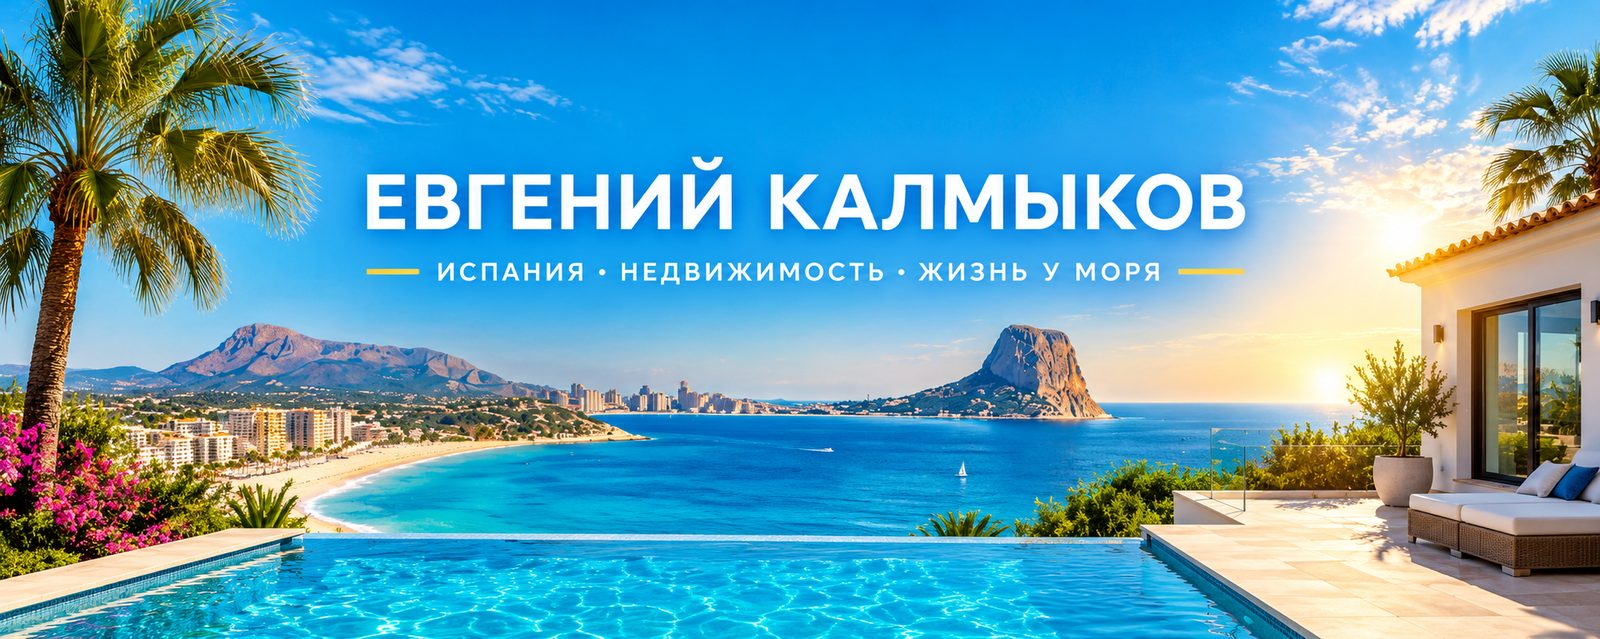
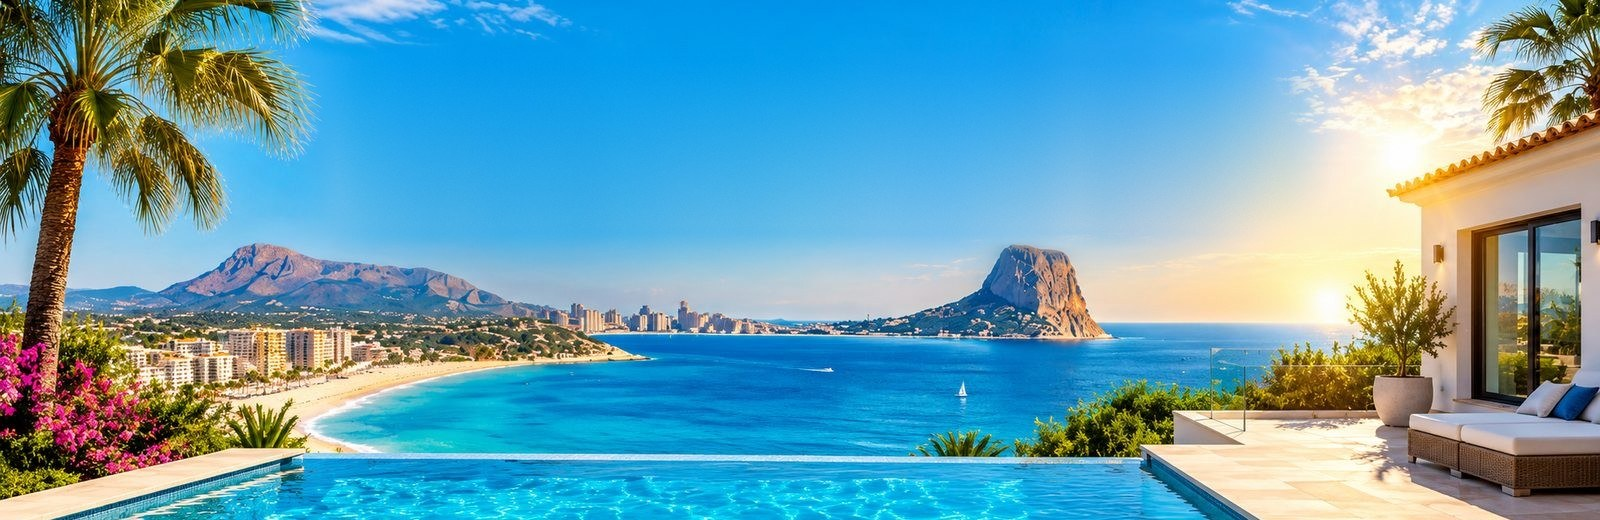
Сайт: обложка без надписи и ниже, соцсети компактной строкой
Claude-Session: https://claude.ai/code/session_01RwUHVjFVtyJVK2XpJuCyKq

diff --git a/sait/index.html b/sait/index.html
@@ -35,7 +35,7 @@ body{background:var(--bg);color:var(--fg);font-family:var(--body);font-size:16px
 
 /* Обложка: небо, море, солнце — пока без фото */
 .cover img{display:block;width:100%;height:100%;object-fit:cover}
-.cover{position:relative;border-radius:20px;overflow:hidden;aspect-ratio:1983/793;max-width:100%;
+.cover{position:relative;border-radius:20px;overflow:hidden;aspect-ratio:1600/520;max-width:100%;
   background:linear-gradient(180deg,#f6c99a 0%,#e9a774 38%,#3f6f93 38.5%,#24496b 70%,#1a3550 100%)}
 .cover .sun{position:absolute;left:62%;top:10%;width:14%;aspect-ratio:1;border-radius:50%;
   background:radial-gradient(circle,#fff3df 0%,#ffd8a8 45%,rgba(255,216,168,0) 70%)}
@@ -51,13 +51,15 @@ h1{font-family:var(--display);font-weight:700;font-size:clamp(24px,3.4vw,36px);l
 .path{margin:6px 0 0;color:var(--muted);font-size:15px}
 
 /* Соцсети: ровные плитки, цвет только в значке */
-.socials{display:grid;grid-template-columns:repeat(auto-fill,minmax(200px,1fr));gap:10px}
-.socials a{display:flex;align-items:center;gap:12px;padding:12px 14px;border-radius:14px;min-width:0;
+.socials{display:grid;grid-template-columns:repeat(8,1fr);gap:8px}
+@media (max-width:1000px){.socials{grid-template-columns:repeat(4,1fr)}}
+.socials a{display:flex;align-items:center;gap:7px;padding:7px 6px 7px 7px;border-radius:12px;min-width:0;
   background:var(--surface);border:1px solid var(--line);color:var(--fg);text-decoration:none;transition:border-color .15s,transform .15s}
-.socials .ic{flex:none;width:40px;height:40px;border-radius:10px;display:grid;place-items:center;
-  background:color-mix(in srgb,var(--c) 14%,var(--surface));color:var(--c);font-weight:700;font-size:15px}
-.socials .ic svg{width:20px;height:20px;fill:currentColor}
-.socials b{display:block;font-size:15px}
+.socials .ic{flex:none;width:36px;height:36px;border-radius:9px;display:grid;place-items:center;
+  background:var(--c);color:#fff;font-weight:700;font-size:15px}
+.socials .ic svg{width:21px;height:21px;fill:currentColor}
+.socials b{display:block;font-size:13.5px;letter-spacing:-.01em;white-space:nowrap;overflow:hidden;text-overflow:ellipsis}
+.socials small{display:none!important}
 .socials small{display:block;color:var(--muted);font-size:13px;white-space:nowrap;overflow:hidden;text-overflow:ellipsis}
 .socials span{min-width:0}
 .socials a:hover,.socials a:focus-visible{border-color:var(--c);transform:translateY(-1px);outline:none}
@@ -141,9 +143,7 @@ button:focus-visible{outline:2px solid var(--fg);outline-offset:2px}
 @media (max-width:600px){
   .wrap{gap:18px;padding-top:12px;padding-bottom:96px}
   /* шапка: обложка ниже, фото и имя рядом */
-  .cover{aspect-ratio:2.8/1;border-radius:14px}
-  /* на телефоне: без надписи, только море и бассейн по центру */
-  .cover img{width:170%;max-width:none;margin-left:-35%;object-position:center bottom}
+  .cover{aspect-ratio:2.4/1;border-radius:14px}
   .profile{margin-top:-30px;padding-inline:6px;gap:12px;flex-wrap:nowrap;align-items:flex-end}
   .avatar{width:72px;height:72px;border-width:3px}
   .who{padding:32px 0 2px;flex:1 1 auto;align-self:flex-end}
@@ -247,7 +247,7 @@ const ICON={
   cam:'<svg viewBox="0 0 24 24"><circle cx="12" cy="12" r="7"/></svg>'
 };
 const socials=[
-  ["main","#229ed9","tg","Telegram-канал","И снова всё сначала","https://t.me/tretiy_raz_s_nulya"],
+  ["main","#229ed9","tg","Telegram","И снова всё сначала","https://t.me/tretiy_raz_s_nulya"],
   ["","#d9342b","yt","YouTube","Жизнь в Испании","https://www.youtube.com/@StartSpainLife/videos"],
   ["","#c13584","ig","Instagram","Валенсия каждый день","https://www.instagram.com/kalmykov.rieltor.valencia"],
   ["","#1877f2","fb","Facebook","Посты и ролики","https://www.facebook.com/kalmykov.rieltor.valencia/"],
